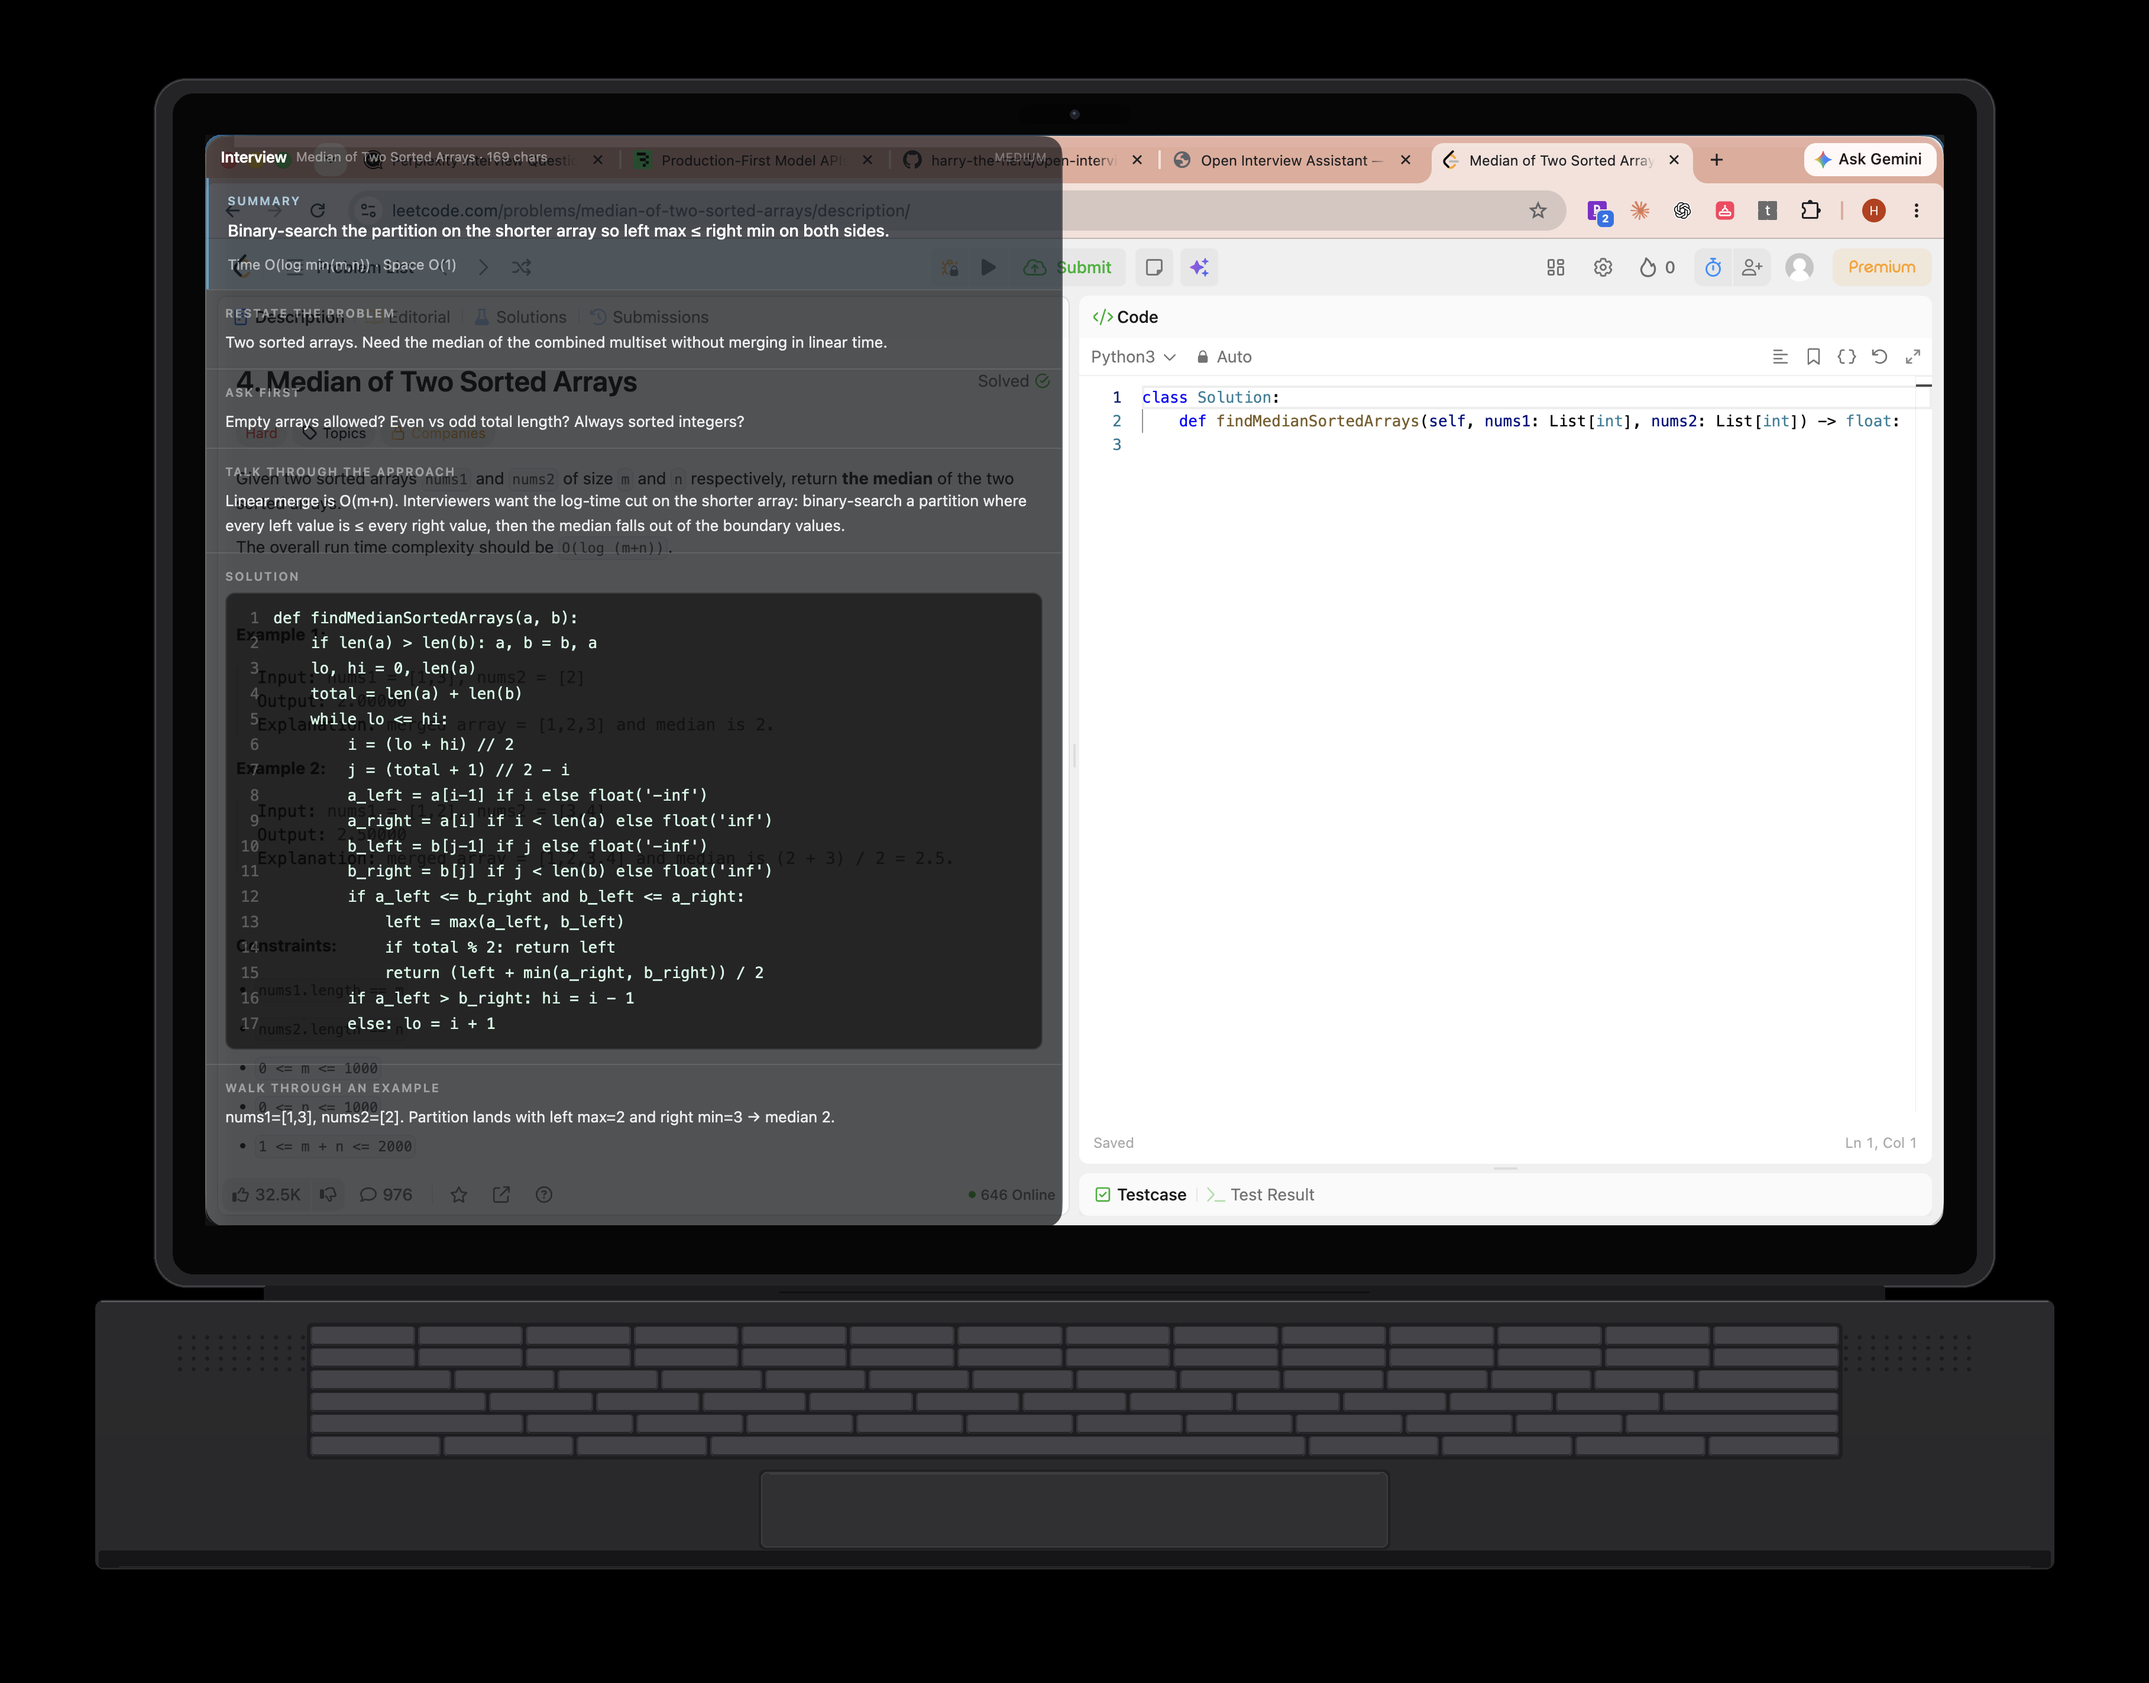
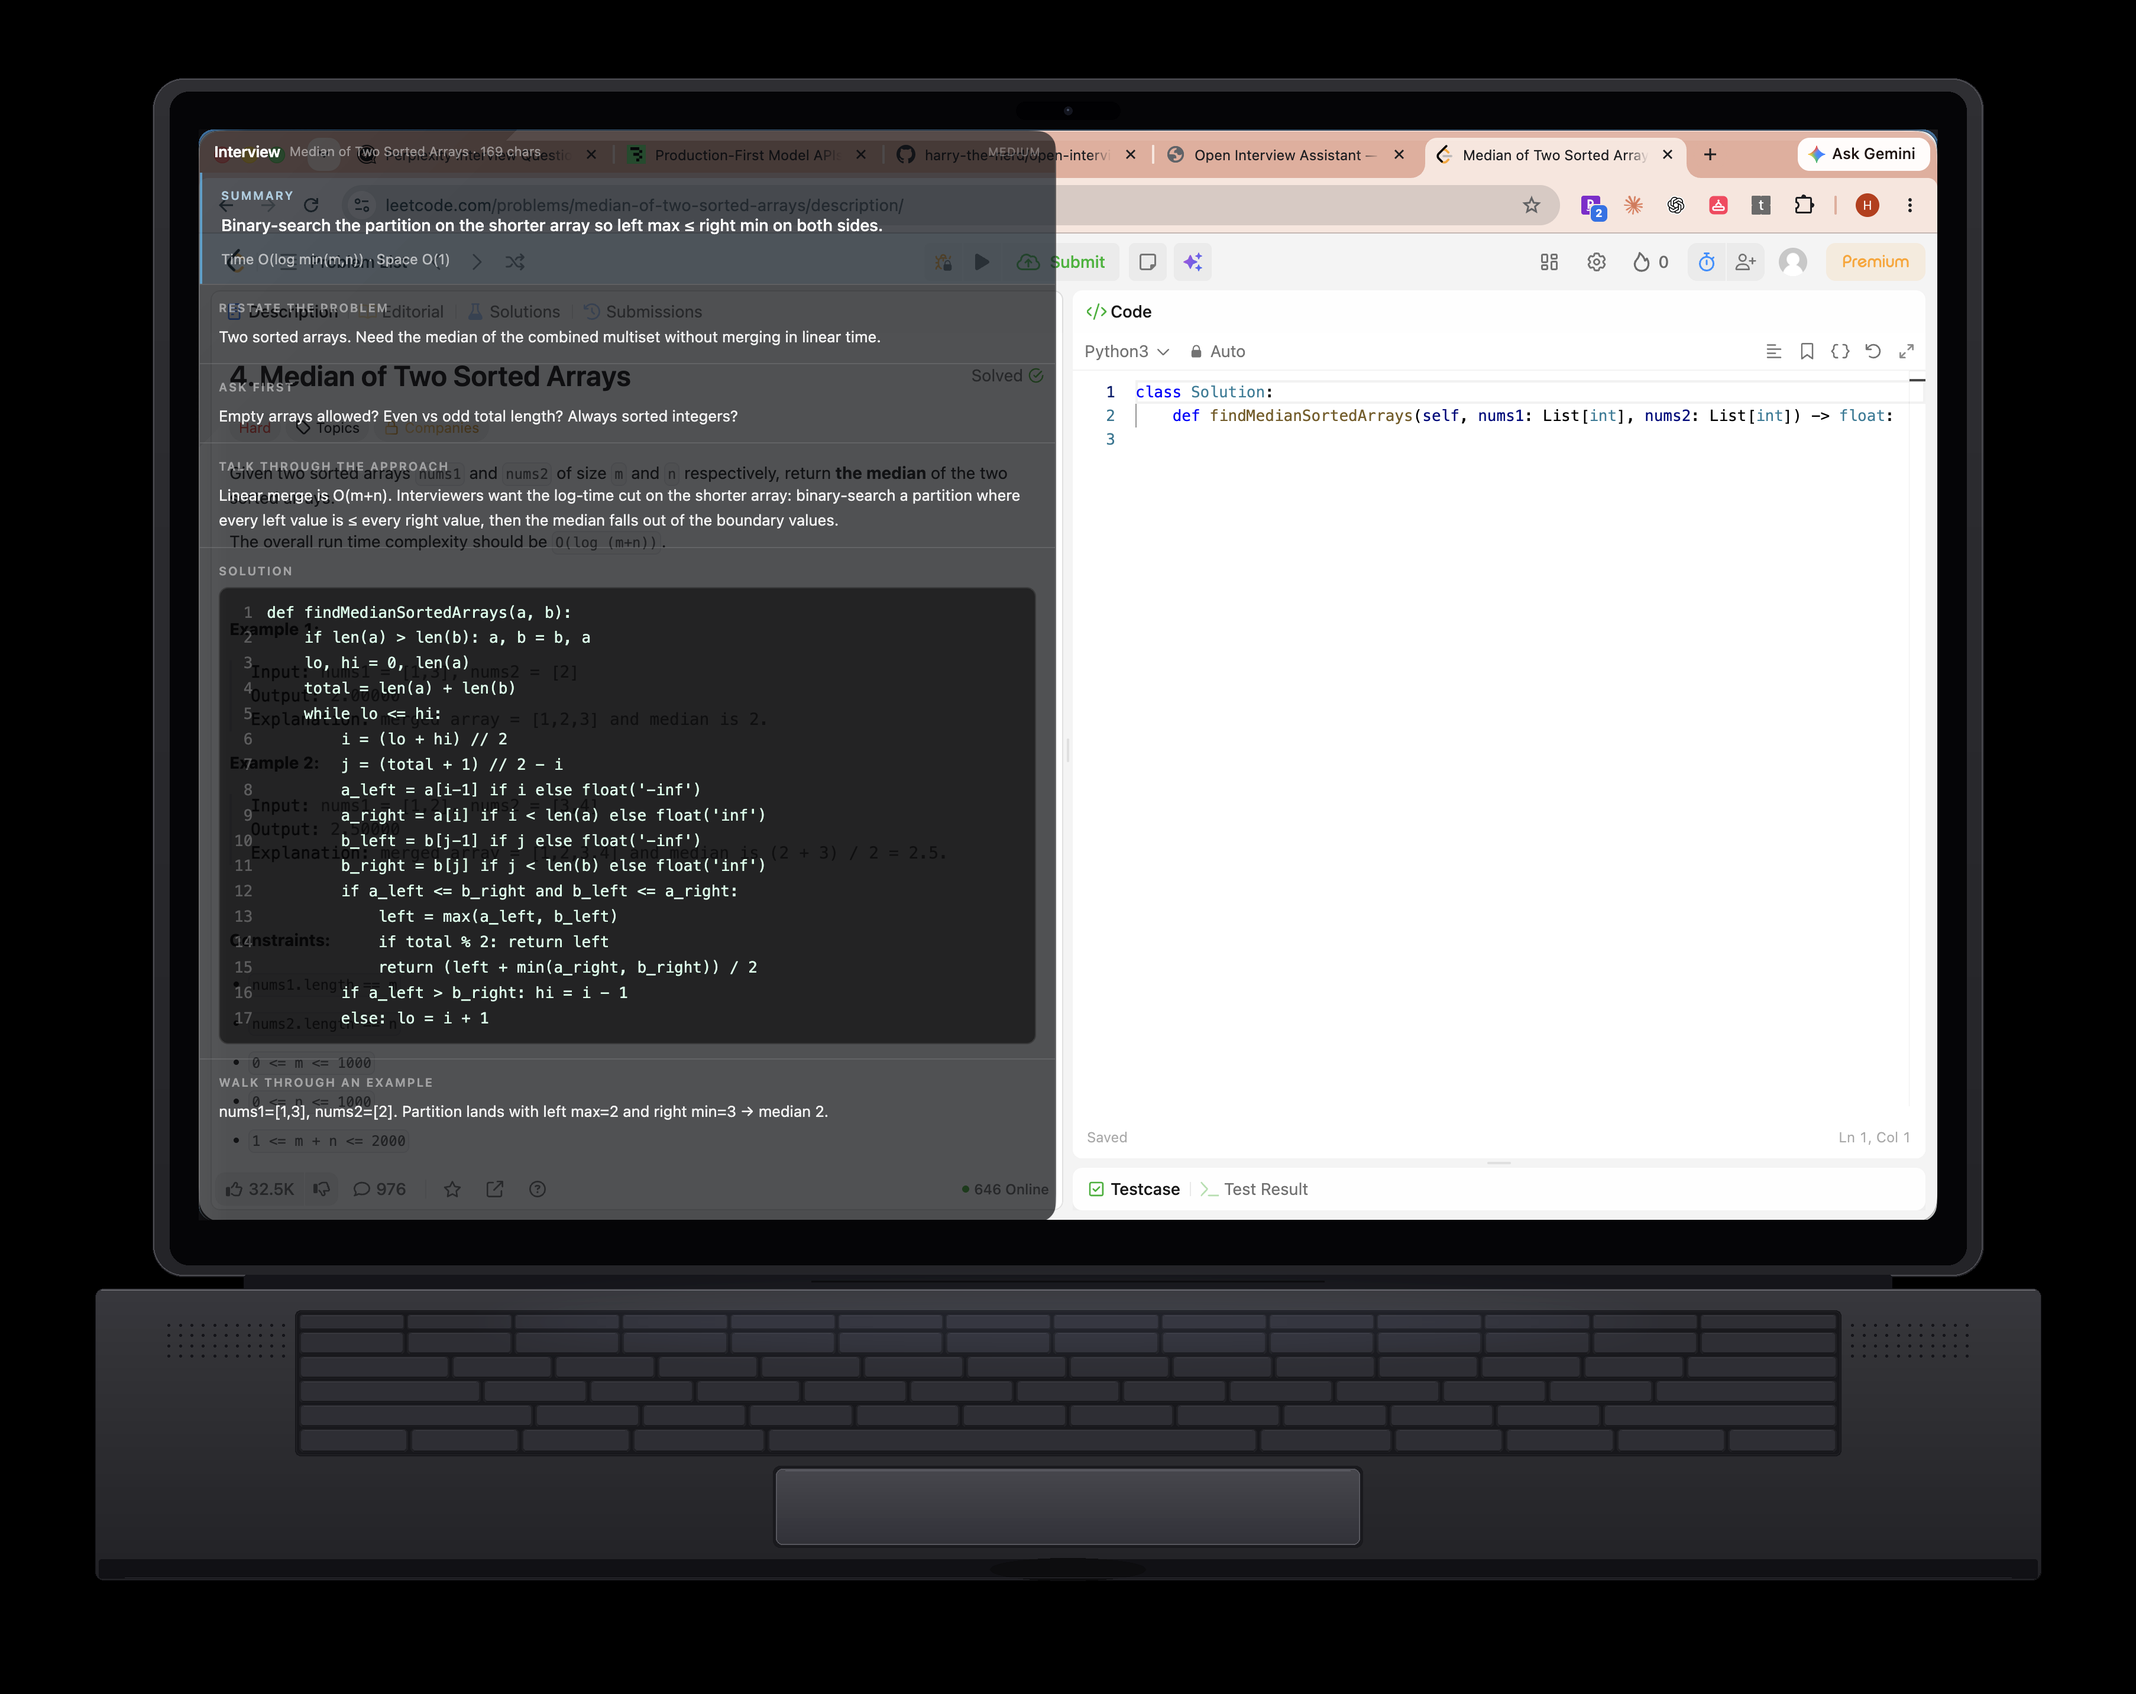
Regenerate MacBook hero mockup without stock watermark
Draw a clean space-gray laptop from scratch (rounded screen, full
chiclet keyboard, trackpad, hinge, speakers) and composite the real
overlay screenshot. Drop the Getty-style reference entirely.

Changed region(s): [[0.031, 0.0618, 0.9612, 0.8967], [0.5891, 0.2474, 0.6202, 0.2783]]

diff --git a/docs/index.html b/docs/index.html
@@ -50,7 +50,7 @@
     />
     <meta property="og:image:type" content="image/png" />
     <meta property="og:image:width" content="1600" />
-    <meta property="og:image:height" content="1253" />
+    <meta property="og:image:height" content="1269" />
     <meta
       property="og:image:alt"
       content="Open Interview Assistant overlay showing an interview script beside a coding problem"
@@ -106,8 +106,8 @@
             "@id": "https://harry-the-nerd.github.io/open-interview-assistant/#hero-image",
             "url": "https://harry-the-nerd.github.io/open-interview-assistant/assets/hero.png",
             "contentUrl": "https://harry-the-nerd.github.io/open-interview-assistant/assets/hero.png",
-            "width": 3634,
-            "height": 2846,
+            "width": 3612,
+            "height": 2865,
             "caption": "Open Interview Assistant floating over a coding interview problem"
           },
           {
@@ -1145,8 +1145,8 @@
             <figure class="shot">
               <img
                 src="assets/hero.png"
-                width="3634"
-                height="2846"
+                width="3612"
+                height="2865"
                 alt="Open Interview Assistant on a MacBook laptop, overlay floating over a LeetCode problem with a structured interview answer"
                 title="Open Interview Assistant on a MacBook"
                 fetchpriority="high"
